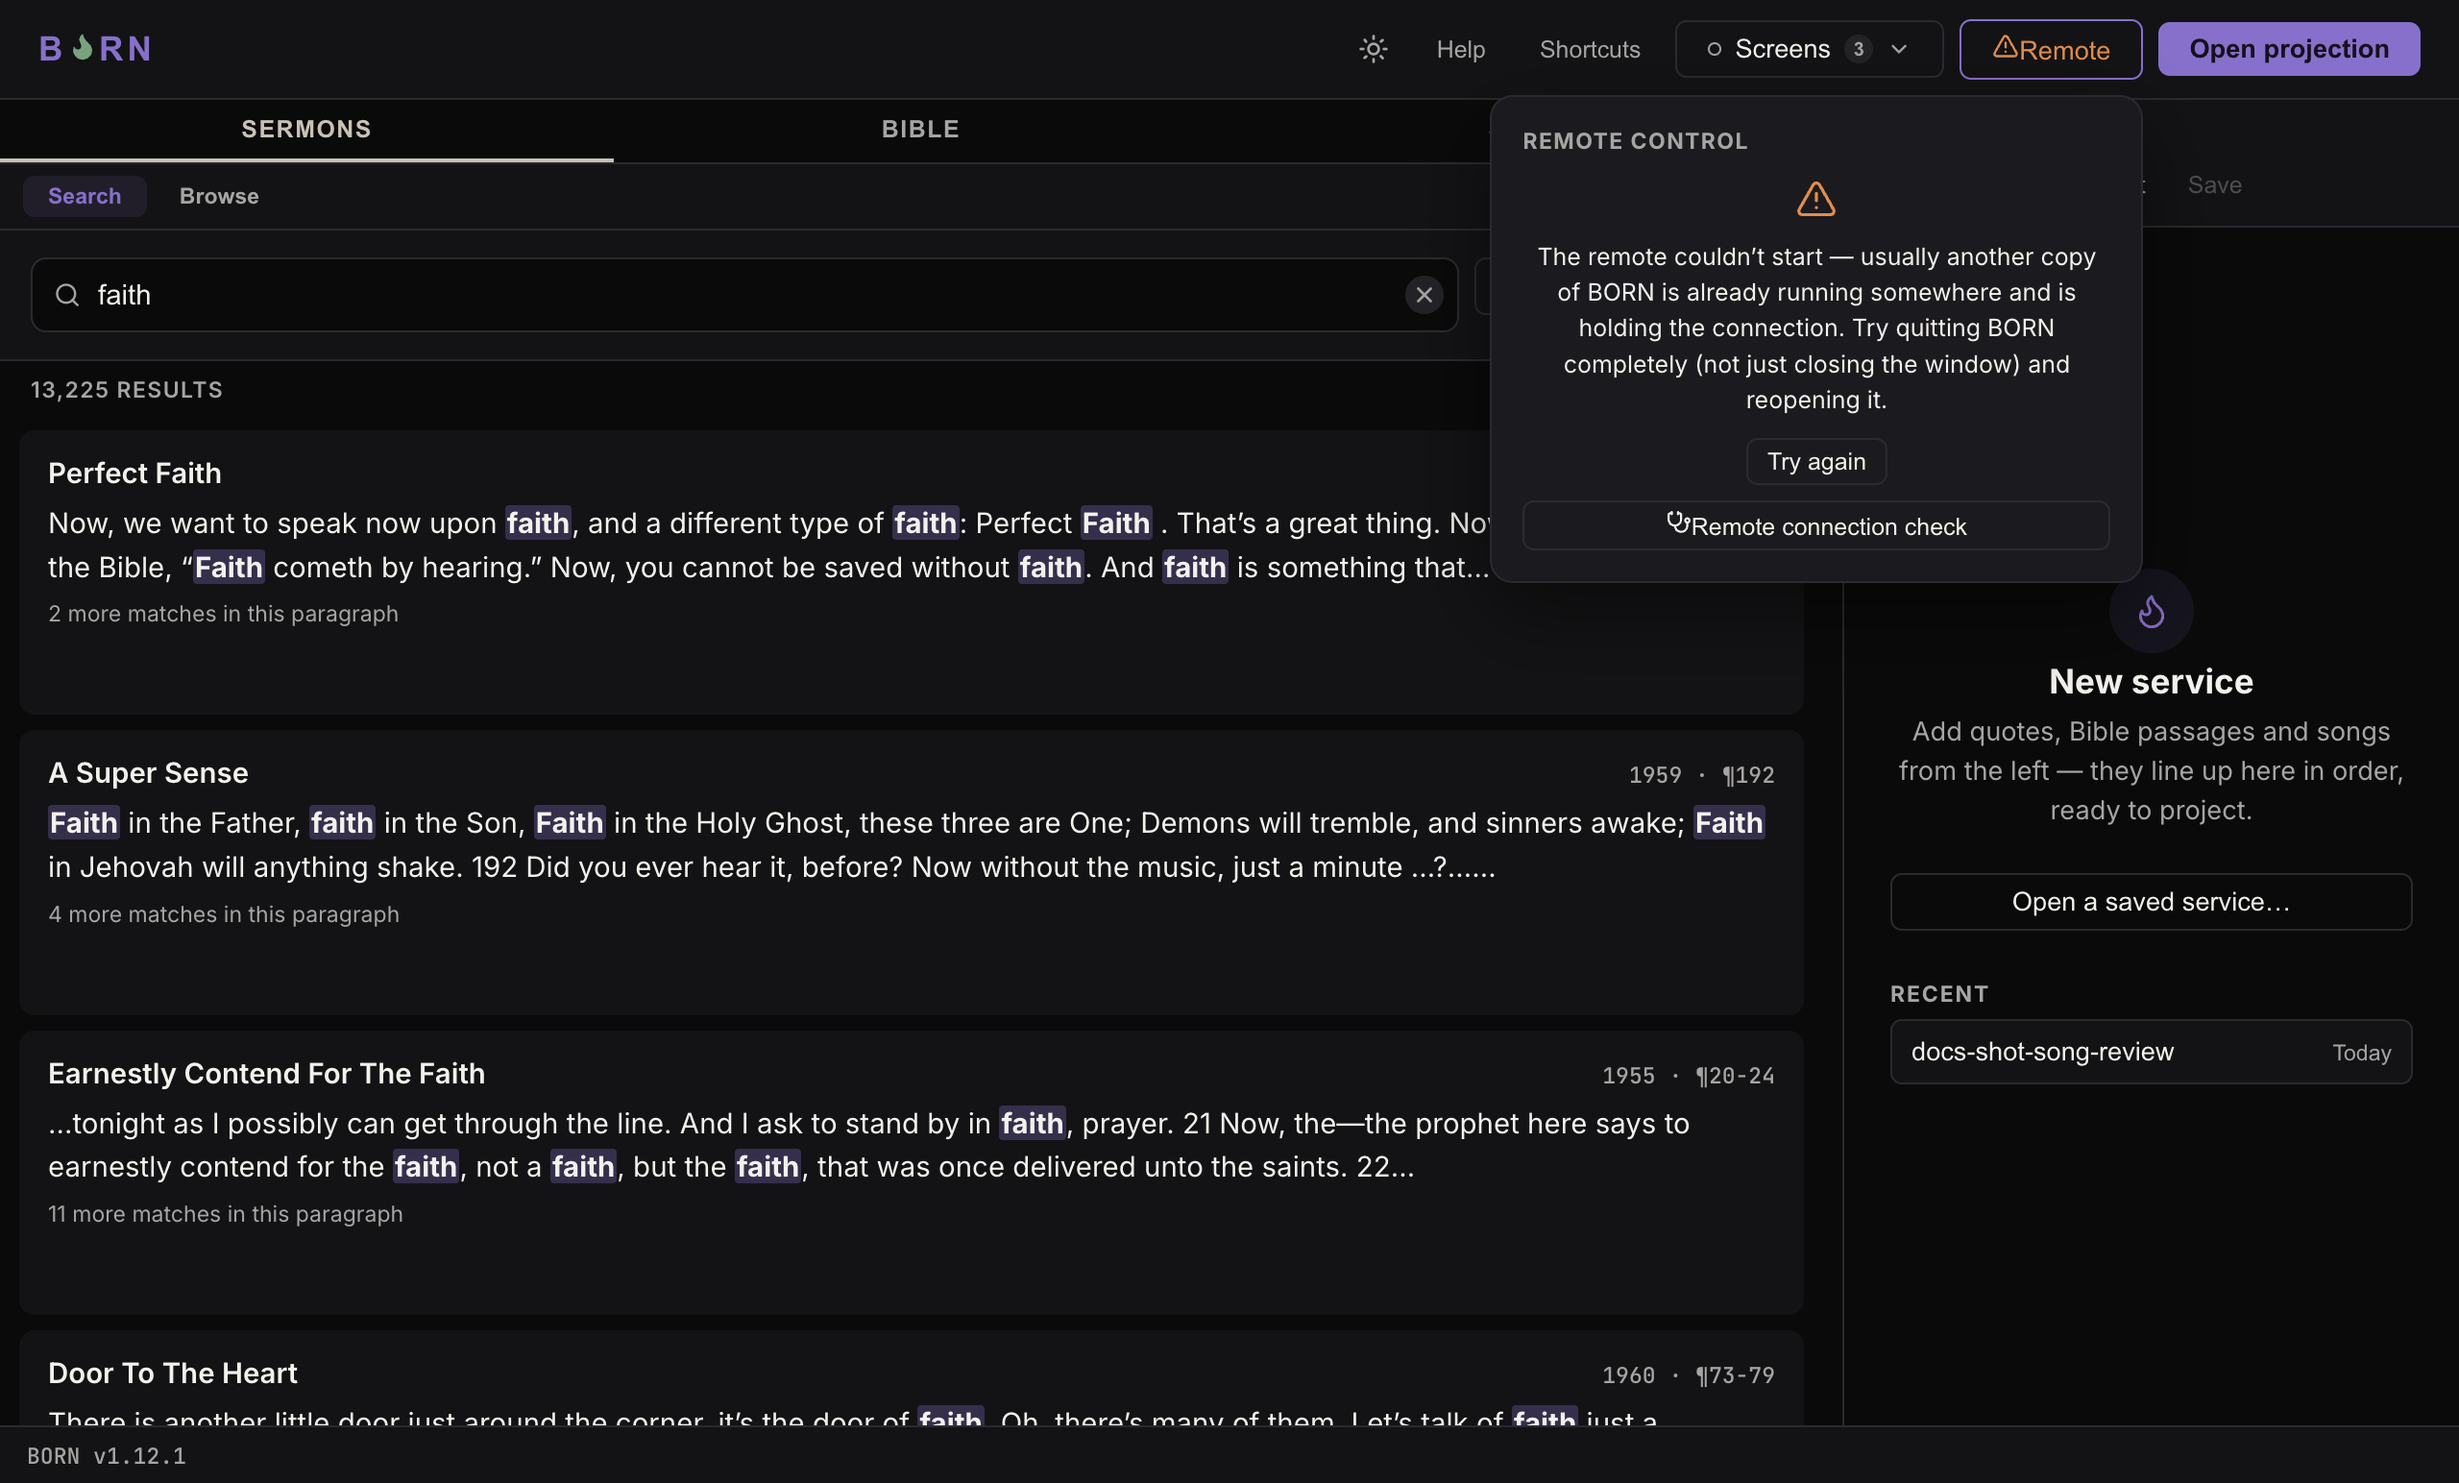
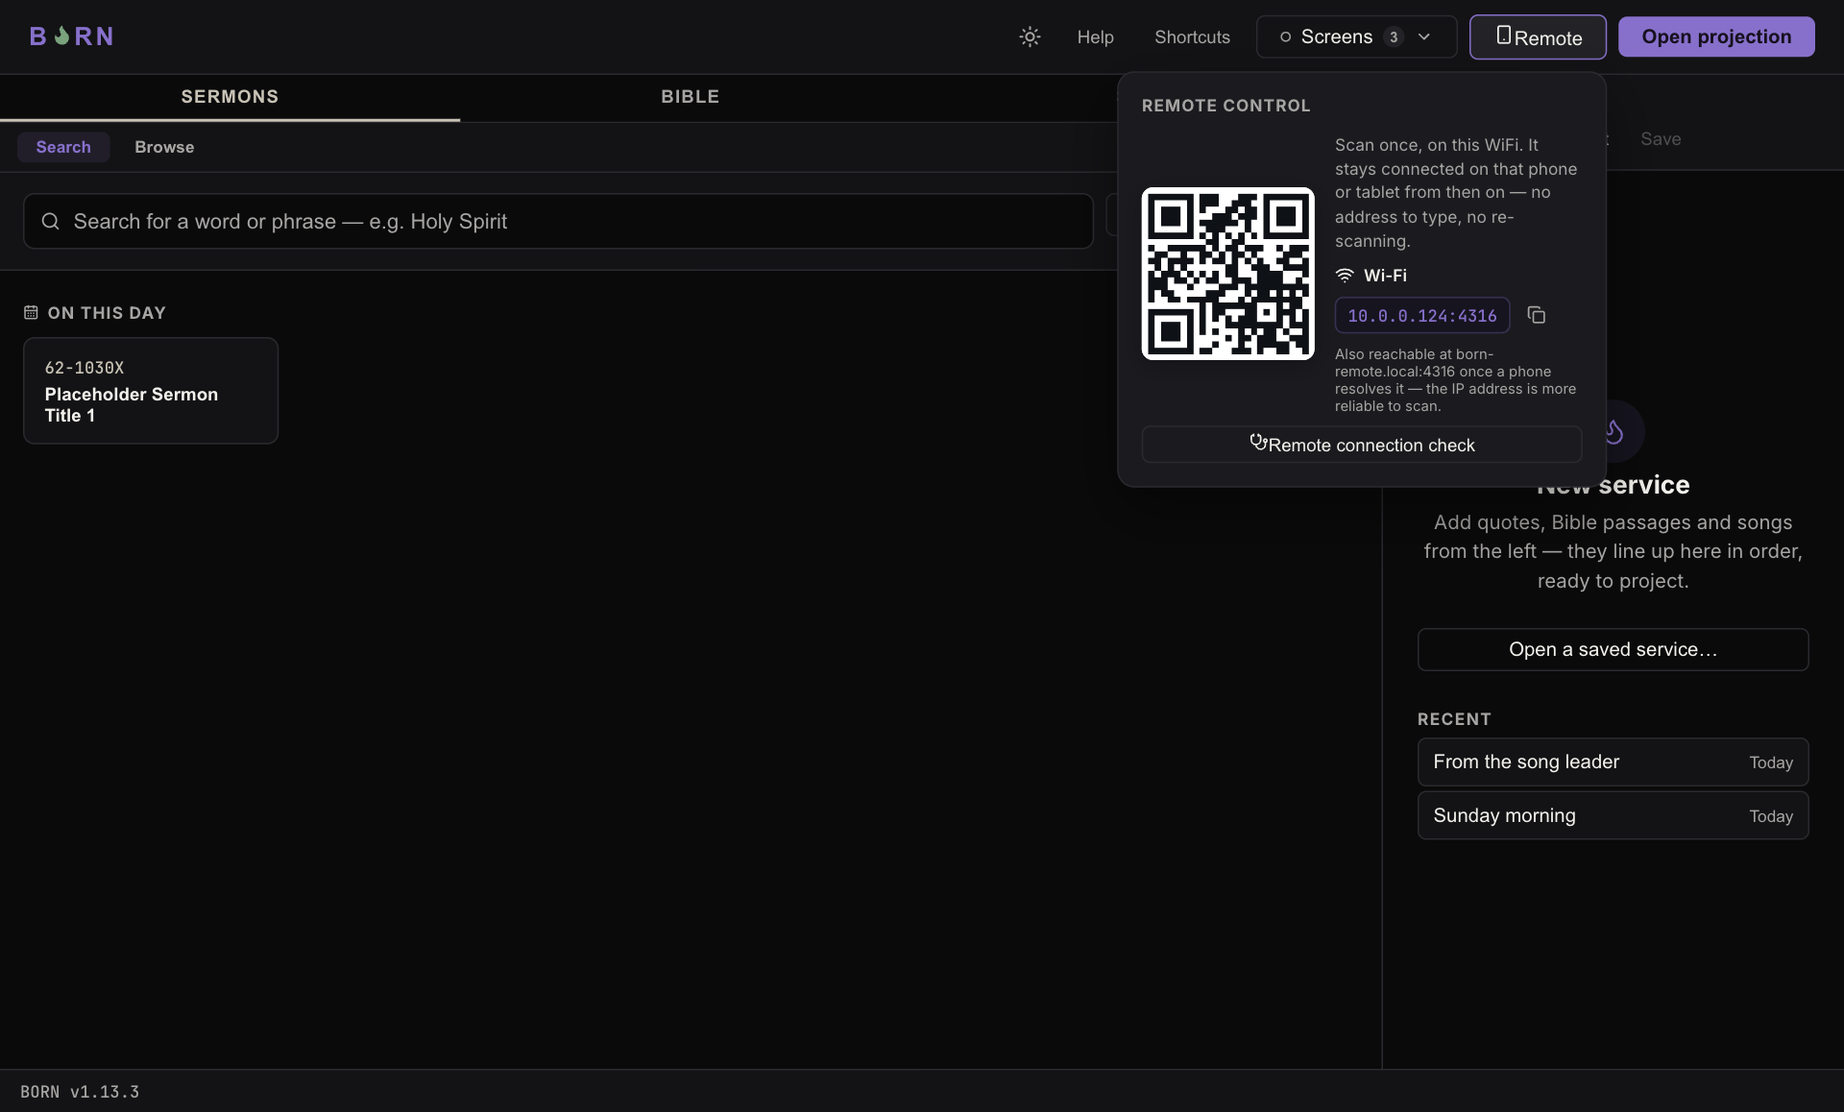
Help pictures retaken from v1.13.3 with invented songs, the KJV and placeholders only
The search, Screens, Remote and song-import pictures showed real sermon
text (first committed in 44c8199 and 79bdafb), all operator pictures showed
v1.12, the Remote picture showed an error state and the phone picture the
old button names. scripts/qa/manual-screenshots.cjs retakes all seven from
the real app on a throwaway profile; each file is now under 300 KB.

diff --git a/docs/manual/v1/README.md b/docs/manual/v1/README.md
@@ -21,29 +21,26 @@ same change.** There's no automated staleness check for this; verify every
 
 ## Regenerating screenshots
 
-Most desktop screenshots are scripted and reproducible:
+The seven screenshots the Help pages use (the six `operator-*.png` and
+`mobile-remote-queue.png`) are retaken in one go from the real app with a
+throwaway profile:
 
-1. In one terminal, start a throwaway dev instance (a scratch user-data-dir
-   keeps this from touching your real settings/recent-services):
-   ```
-   BORN_USER_DATA_DIR=/tmp/born-docsshots ./node_modules/.bin/electron-vite dev --remoteDebuggingPort 9920
-   ```
-   (`ELECTRON_RUN_AS_NODE` must be unset in that terminal.) The real bundled
-   `sermons.db.gz`/`library.db.gz` need to exist under `resources/` first —
-   run `npm run build:db && npm run build:library` if they don't.
-2. In another terminal: `node scripts/docs-screenshots.mjs --port=9920`
-3. Review each changed image before committing — the script clicks through a
-   fixed path and can silently land on the wrong screen if a button's text or
-   a selector changed.
+```
+npm run build
+PW_DIR=/tmp/born-pw node scripts/qa/manual-screenshots.cjs /tmp/born-docsshots /tmp/born-docsshots-out
+```
+
+(`ELECTRON_RUN_AS_NODE` must be unset; Playwright is loaded from `PW_DIR`, it
+is not a dependency.) Pictures may show only the app's own screens, invented
+songs and the KJV — never sermon text: the script replaces any sermon titles
+and paragraphs on screen with placeholders, and the test address with the
+default `10.0.0.124:4316` / `born-remote.local`. Look at every picture before
+committing it, and keep each file under 300 KB.
 
 **Not covered by the script, captured by hand:**
 
-- `mobile-remote-queue.png` — the phone remote has no desktop equivalent to
-  screenshot from the main window. Point a browser (or a second Electron
-  window, as a Chromium stand-in — see the git history of this script for the
-  harness pattern used to generate the current shot) at the address shown in
-  the desktop app's Remote popover, set its viewport to a phone size
-  (390×844 was used for the current shot), and capture it the same way.
+- `remote-connection-check.png`, `remote-network-selector.png`,
+  `remote-network-show-all.png`.
 - A real external display, a real phone on real hardware, Windows, and
   high-DPI scaling — none of these can be faked from this script and must be
   checked by hand if a change touches them.

diff --git a/docs/manual/v1/operators/sharing-queues.md b/docs/manual/v1/operators/sharing-queues.md
@@ -42,7 +42,7 @@ step, no dialog.
 If the file has songs you don't have yet, you'll see one review screen
 before the import finishes:
 
-![The song-import review dialog — one new song with a plain checkbox, and one conflicting "Amazing Grace" with a choice between adding it separately or using your own existing version.](../images/operator-song-import-review.png)
+![The song-import review dialog — one new song with a plain checkbox, and one, "Evening Song", already in the library with different words and a choice between adding it separately or using your own existing version.](../images/operator-song-import-review.png)
 
 Each song not already in your library gets its own row, with its title and
 the first line or two of its lyrics so you recognize it. What you do next:
